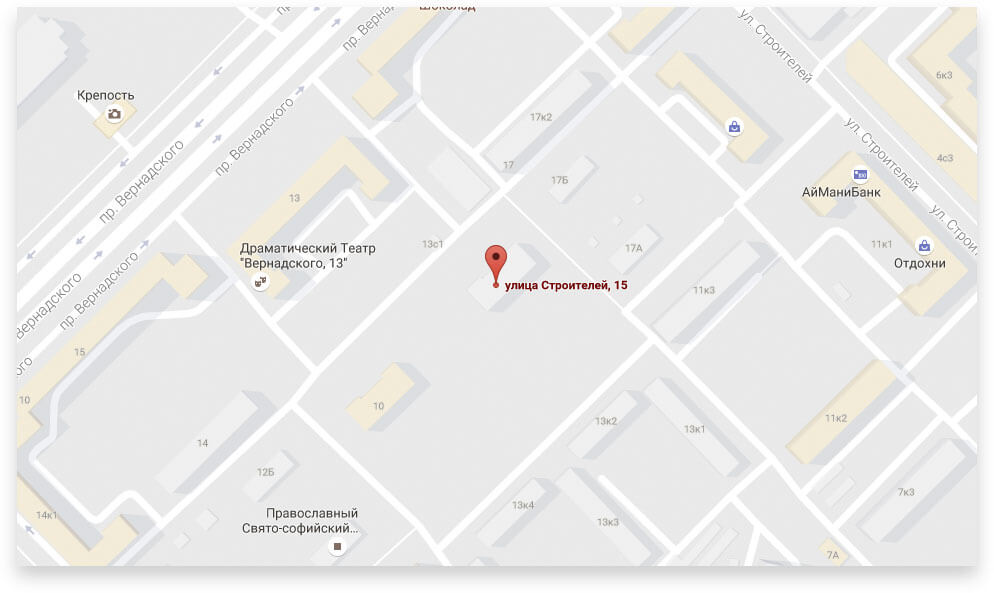
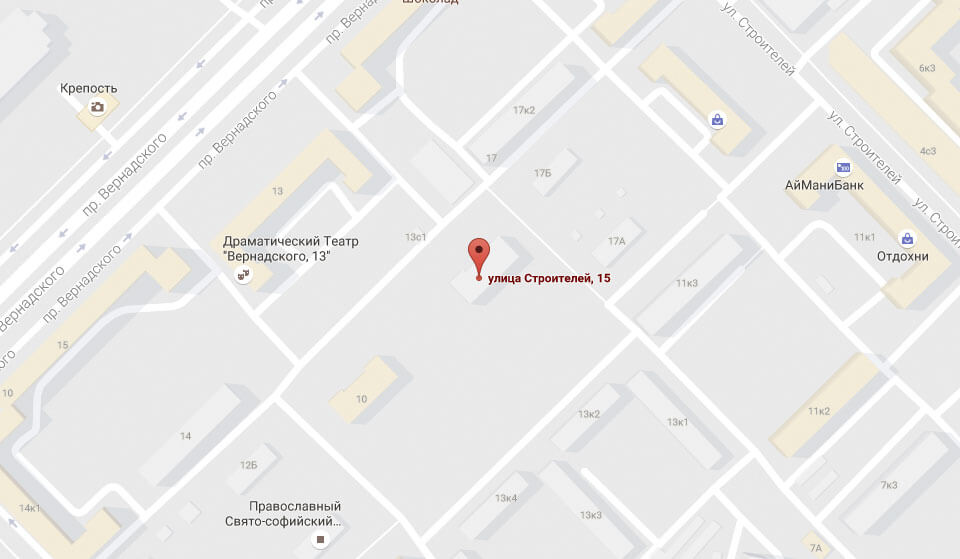
added modal-map

diff --git a/index.html b/index.html
@@ -260,7 +260,7 @@
 				<h2>Контакты</h2>
 				<p>Вы можете забрать товар сами, заехав в наш офис. Заодно, вы сможете проверить работоспособность покупки. Всякое бывает.</p>
 				<a class="map-small" href="#">
-					<img src="img/map-small.jpg" alt="г. Москва, ул. Строителей, 15 " width="560" height="222">
+					<img src="img/map-small.jpg" alt="г. Москва, ул. Строителей, 15" width="560" height="222">
 				</a>
 				<a href="#" class="btn btn-feedback">Напишите нам</a>
 			</section>
@@ -334,6 +334,13 @@
 		</div>
 		<button class="btn">Отправить</button>
 	</form>
+	<button class="modal-close" type="button" aria-label="Закрыть окно"></button>
+</section>
+
+<section class="modal-map">
+	<h2 class="visually-hidden">Как до нас добраться</h2>
+	<iframe src="https://www.google.com/maps/embed?pb=!1m18!1m12!1m3!1d2249.1125488779976!2d37.52742931592807!3d55.687030980535816!2m3!1f0!2f0!3f0!3m2!1i1024!2i768!4f13.1!3m3!1m2!1s0x46b54cf65f5c8955%3A0x694710ccd55501e!2z0YPQuy4g0KHRgtGA0L7QuNGC0LXQu9C10LksIDE1LCDQnNC-0YHQutCy0LAsINCg0L7RgdGW0Y8sIDExOTMxMQ!5e0!3m2!1suk!2sua!4v1529499170178" width="960" height="559" allowfullscreen></iframe>
+	<img src="img/map-big.jpg" alt="г. Москва, ул. Строителей, 15" width="960" height="559">
 	<button class="modal-close" type="button" aria-label="Закрыть окно"></button>
 </section>
 

diff --git a/css/style.css b/css/style.css
@@ -973,10 +973,6 @@ input[type="radio"].visually-hidden {
   box-shadow: 0 10px 20px rgba(4, 6, 6, 0.2);
   z-index: 2; }
 
-.modal-feedback-show {
-  display: block;
-  animation: jelly 1s linear both; }
-
 .modal-feedback-error {
   animation-name: shake;
   animation-duration: 0.6s; }
@@ -1050,5 +1046,31 @@ input[type="radio"].visually-hidden {
 .feedback-item input::placeholder,
 .feedback-item textarea::placeholder {
   color: rgba(70, 70, 70, 0.4); }
+
+.modal-map {
+  position: fixed;
+  display: none;
+  top: 50px;
+  left: 50%;
+  margin-left: -480px;
+  width: 960px;
+  height: 559px;
+  background-color: #eaeaea;
+  box-shadow: 0 10px 20px rgba(4, 6, 6, 0.2);
+  z-index: 2; }
+  .modal-map iframe {
+    position: relative;
+    z-index: 4;
+    border: none; }
+  .modal-map img {
+    position: absolute;
+    top: 0;
+    left: 0;
+    z-index: 3; }
+
+.modal-feedback-show,
+.modal-map-show {
+  display: block;
+  animation: jelly 1s linear both; }
 
 /*# sourceMappingURL=style.css.map */

diff --git a/js/script.js b/js/script.js
@@ -80,3 +80,28 @@ window.addEventListener("keydown", function (evt) {
 	}
 });
 
+var mapLink = document.querySelector(".map-small");
+var mapPopup = document.querySelector(".modal-map");
+var mapClose = mapPopup.querySelector(".modal-close");
+
+mapLink.addEventListener("click", function (evt) {
+	evt.preventDefault();
+	mapPopup.classList.add("modal-map-show");
+	overlay.classList.add("modal-overlay-show");
+});
+
+mapClose.addEventListener("click", function (evt) {
+	evt.preventDefault();
+	mapPopup.classList.remove("modal-map-show");
+	overlay.classList.remove("modal-overlay-show");
+});
+
+window.addEventListener("keydown", function (evt) {
+	if (evt.keyCode === 27) {
+		evt.preventDefault();
+		if (mapPopup.classList.contains("modal-map-show")) {
+			mapPopup.classList.remove("modal-map-show");
+			overlay.classList.remove("modal-overlay-show");
+		}
+	}
+});

diff --git a/css/style.scss b/css/style.scss
@@ -1209,11 +1209,6 @@ input[type="radio"].visually-hidden {
 	z-index: 2;
 }
 
-.modal-feedback-show {
-	display: block;
-	animation: jelly 1s linear both;
-}
-
 .modal-feedback-error {
 	animation-name: shake;
 	animation-duration: 0.6s;
@@ -1318,4 +1313,36 @@ input[type="radio"].visually-hidden {
 	textarea::placeholder {
 		color: rgba(70, 70, 70, .4);
 	}
+}
+
+.modal-map {
+	position: fixed;
+	display: none;
+	top: 50px;
+	left: 50%;
+	margin-left: -480px;
+	width: 960px;
+	height: 559px;
+	background-color: #eaeaea;
+	box-shadow: 0 10px 20px rgba(4, 6, 6, 0.2);
+	z-index: 2;
+
+	iframe {
+		position: relative;
+		z-index: 4;
+		border: none;
+	}
+
+	img {
+		position: absolute;
+		top: 0;
+		left: 0;
+		z-index: 3;
+	}
+}
+
+.modal-feedback-show,
+.modal-map-show {
+	display: block;
+	animation: jelly 1s linear both;
 }
